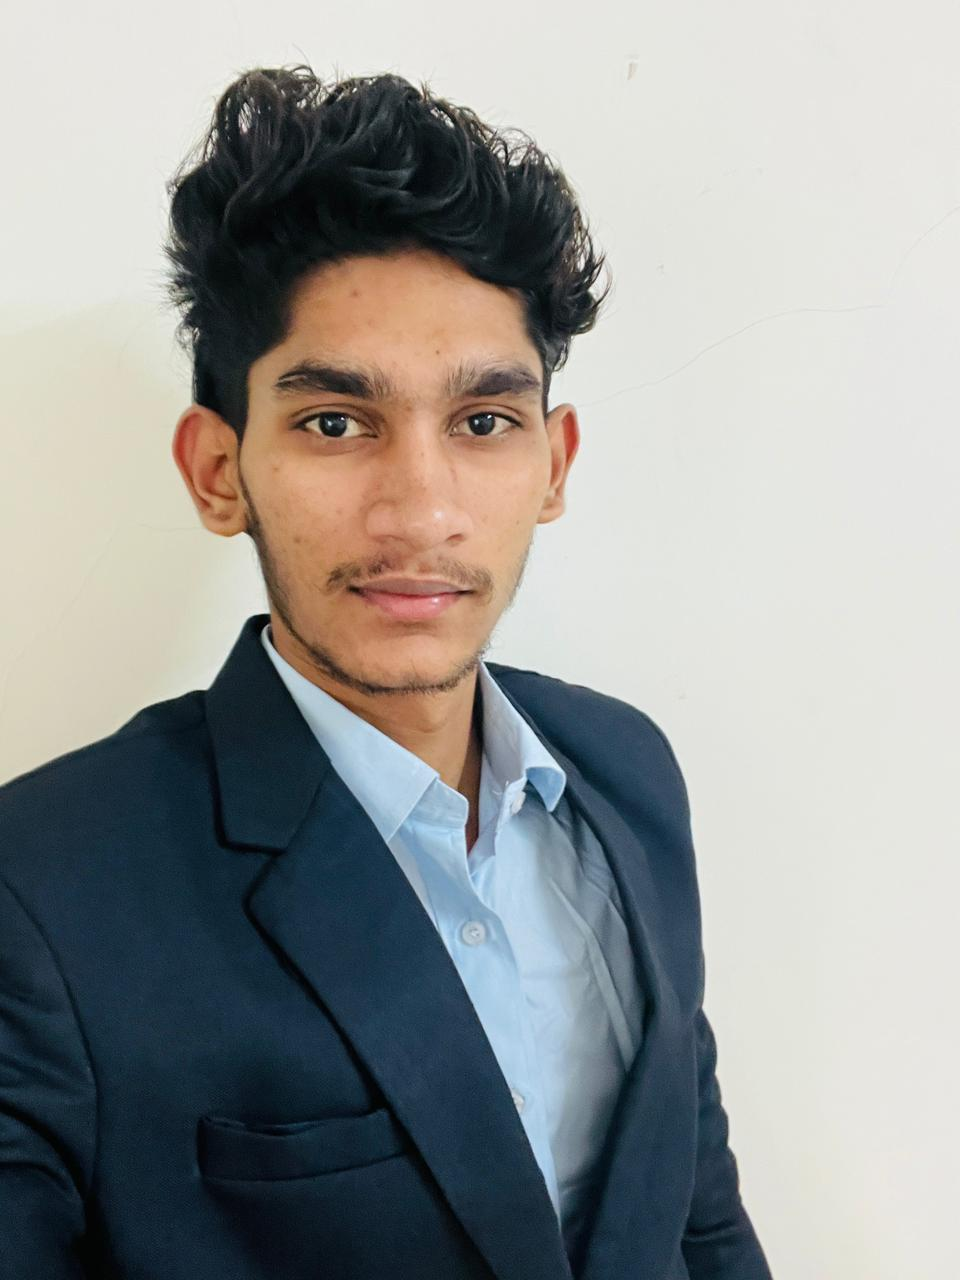
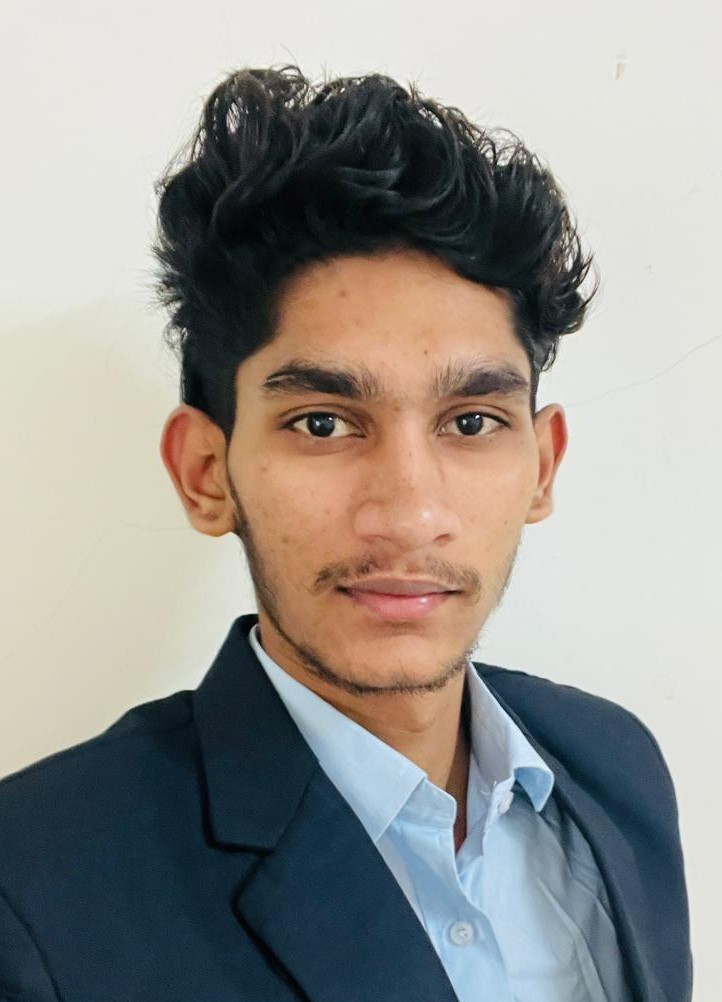
Update profile image and remove experience stats

diff --git a/index.html b/index.html
@@ -77,26 +77,12 @@
                     <a href="#contact" class="btn btn-secondary">Contact Me</a>
                 </div>
 
-                <div class="stats-row">
-                    <div class="stat-item">
-                        <span class="stat-number">3+</span>
-                        <span class="stat-label">Years Exp.</span>
-                    </div>
-                    <div class="stat-item">
-                        <span class="stat-number">20+</span>
-                        <span class="stat-label">Projects</span>
-                    </div>
-                    <div class="stat-item">
-                        <span class="stat-number">100%</span>
-                        <span class="stat-label">Satisfaction</span>
-                    </div>
-                </div>
+                <!-- Stats row removed as per request -->
             </div>
 
             <div class="hero-visual">
                 <div class="profile-card">
-                    <!-- Replace the src below with your local file path, e.g., 'profile.jpg' -->
-                    <img src="portfolio.jpeg" alt="Abhishek Chavan" class="profile-image">
+                    <img src="portfolio-new.jpg" alt="Abhishek Chavan" class="profile-image">
                     <div class="card-decoration"></div>
                     <div class="code-snippet">
                         <div class="dot red"></div>
